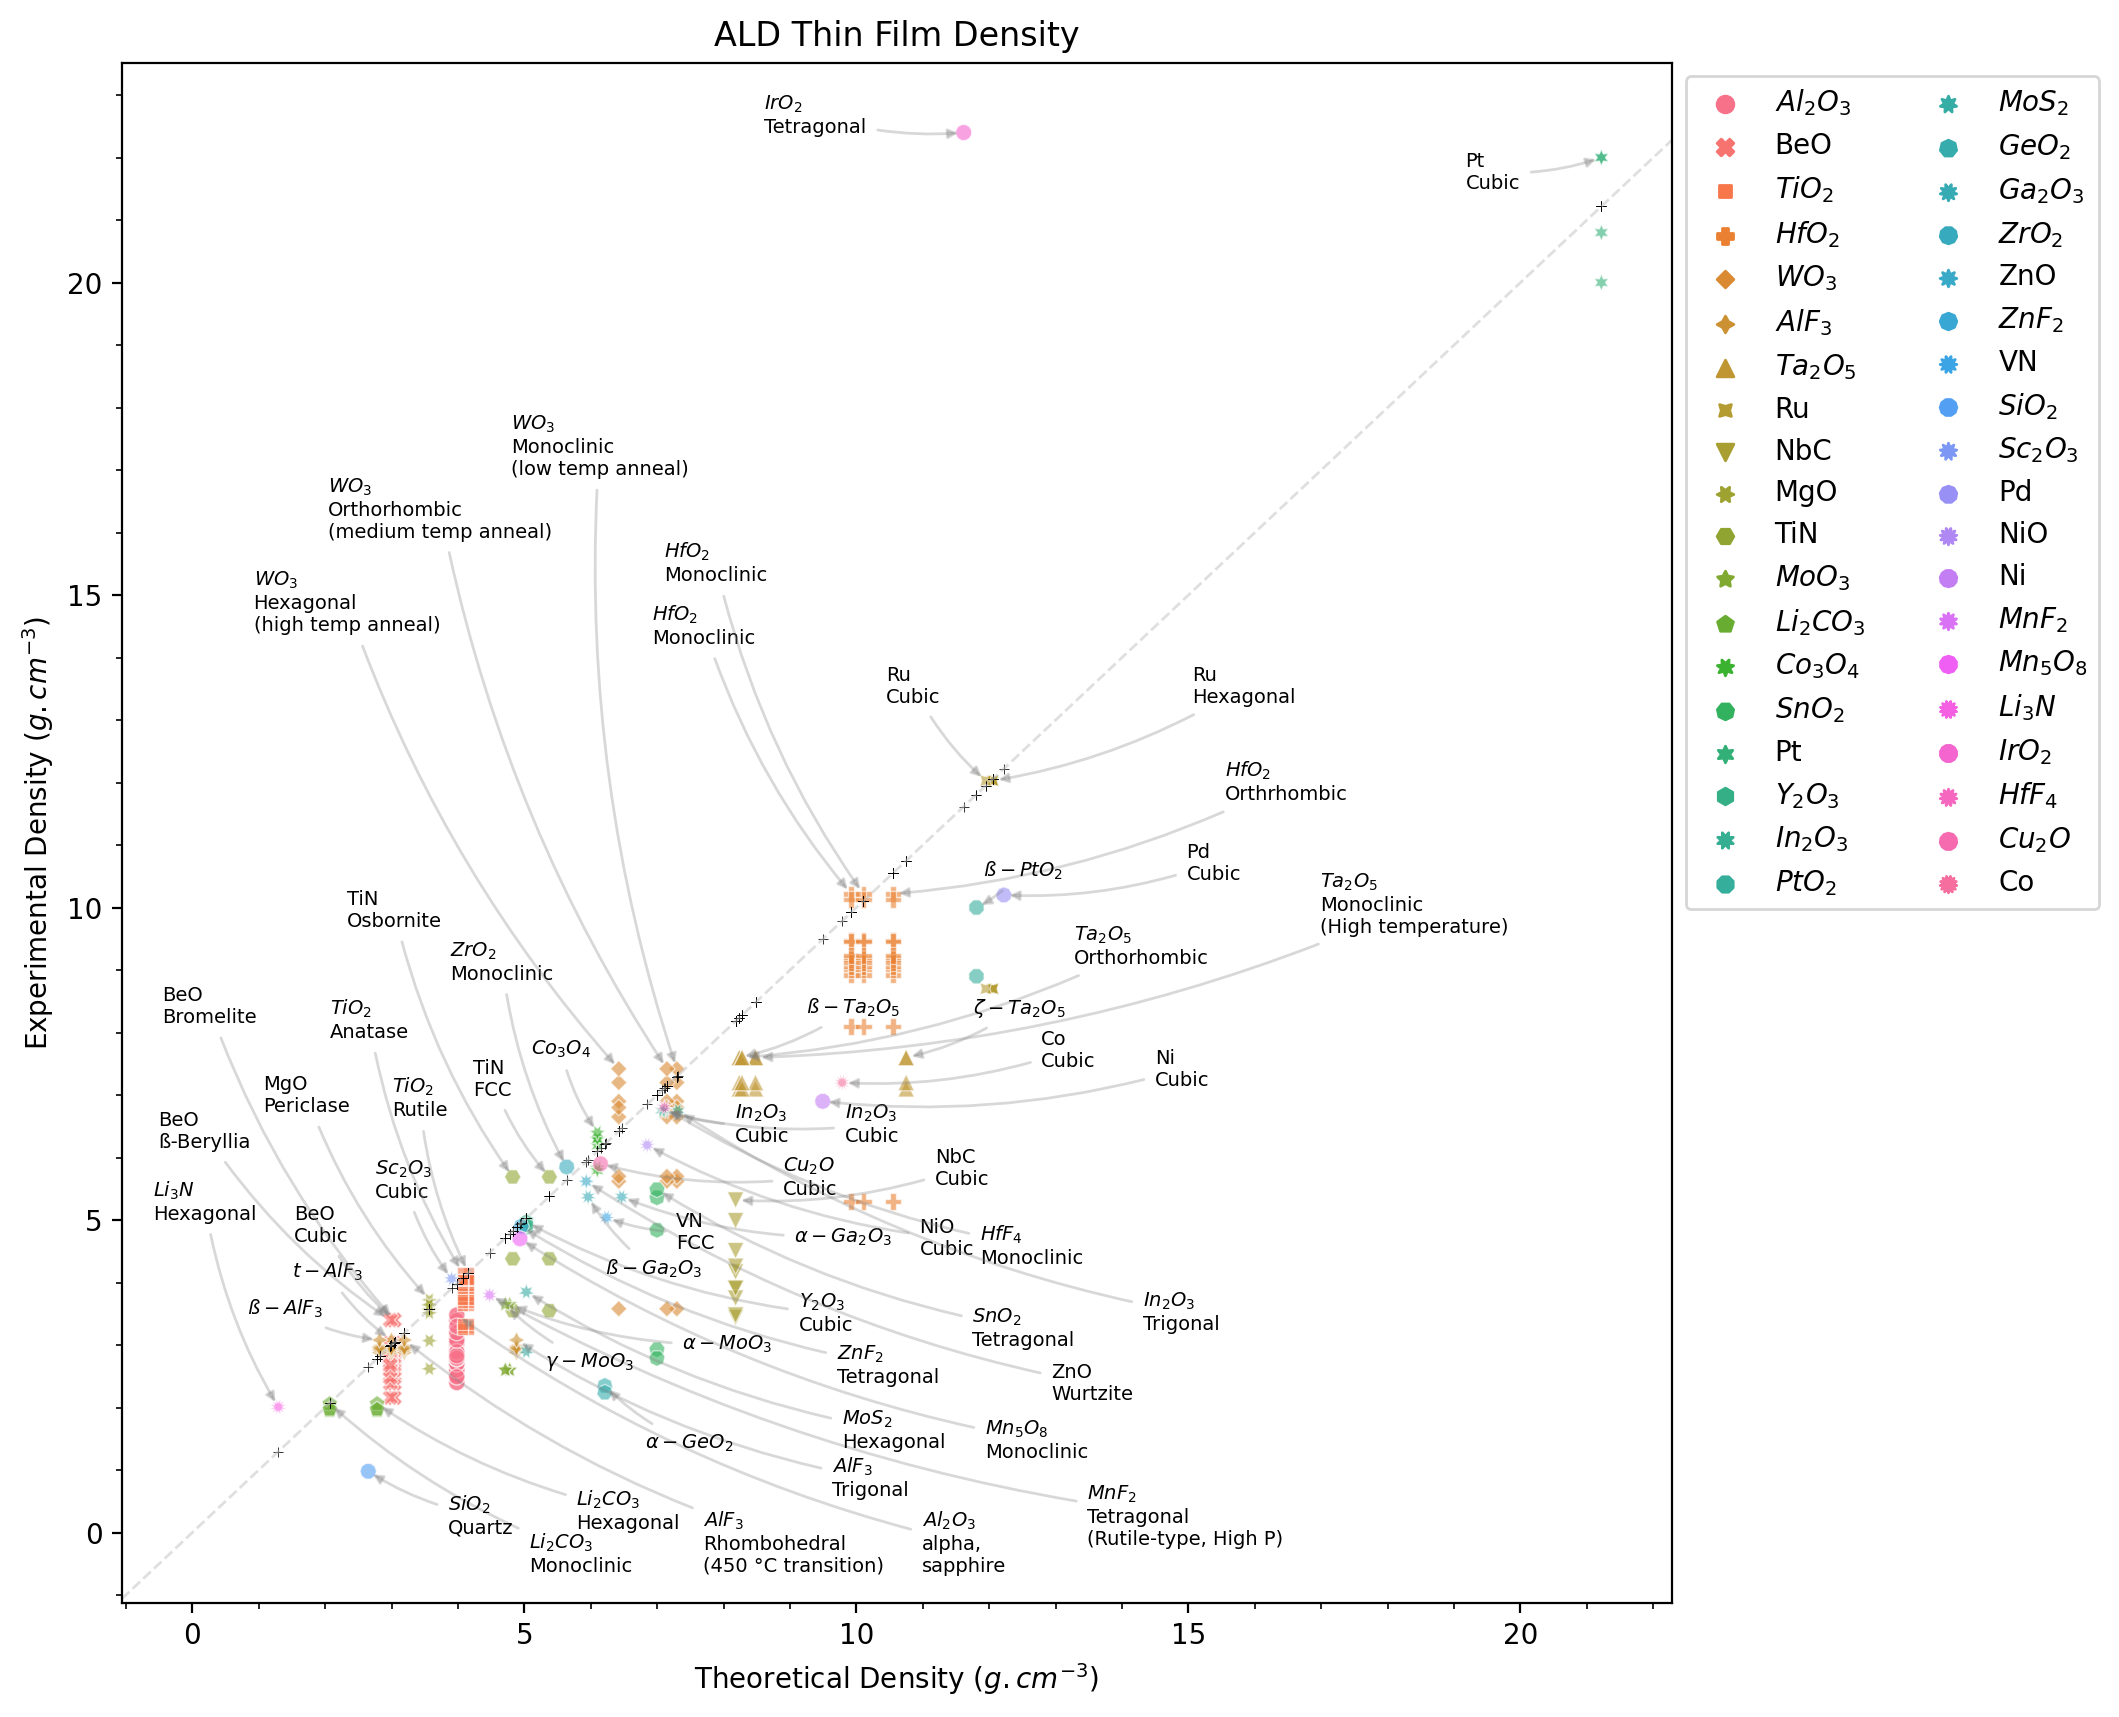
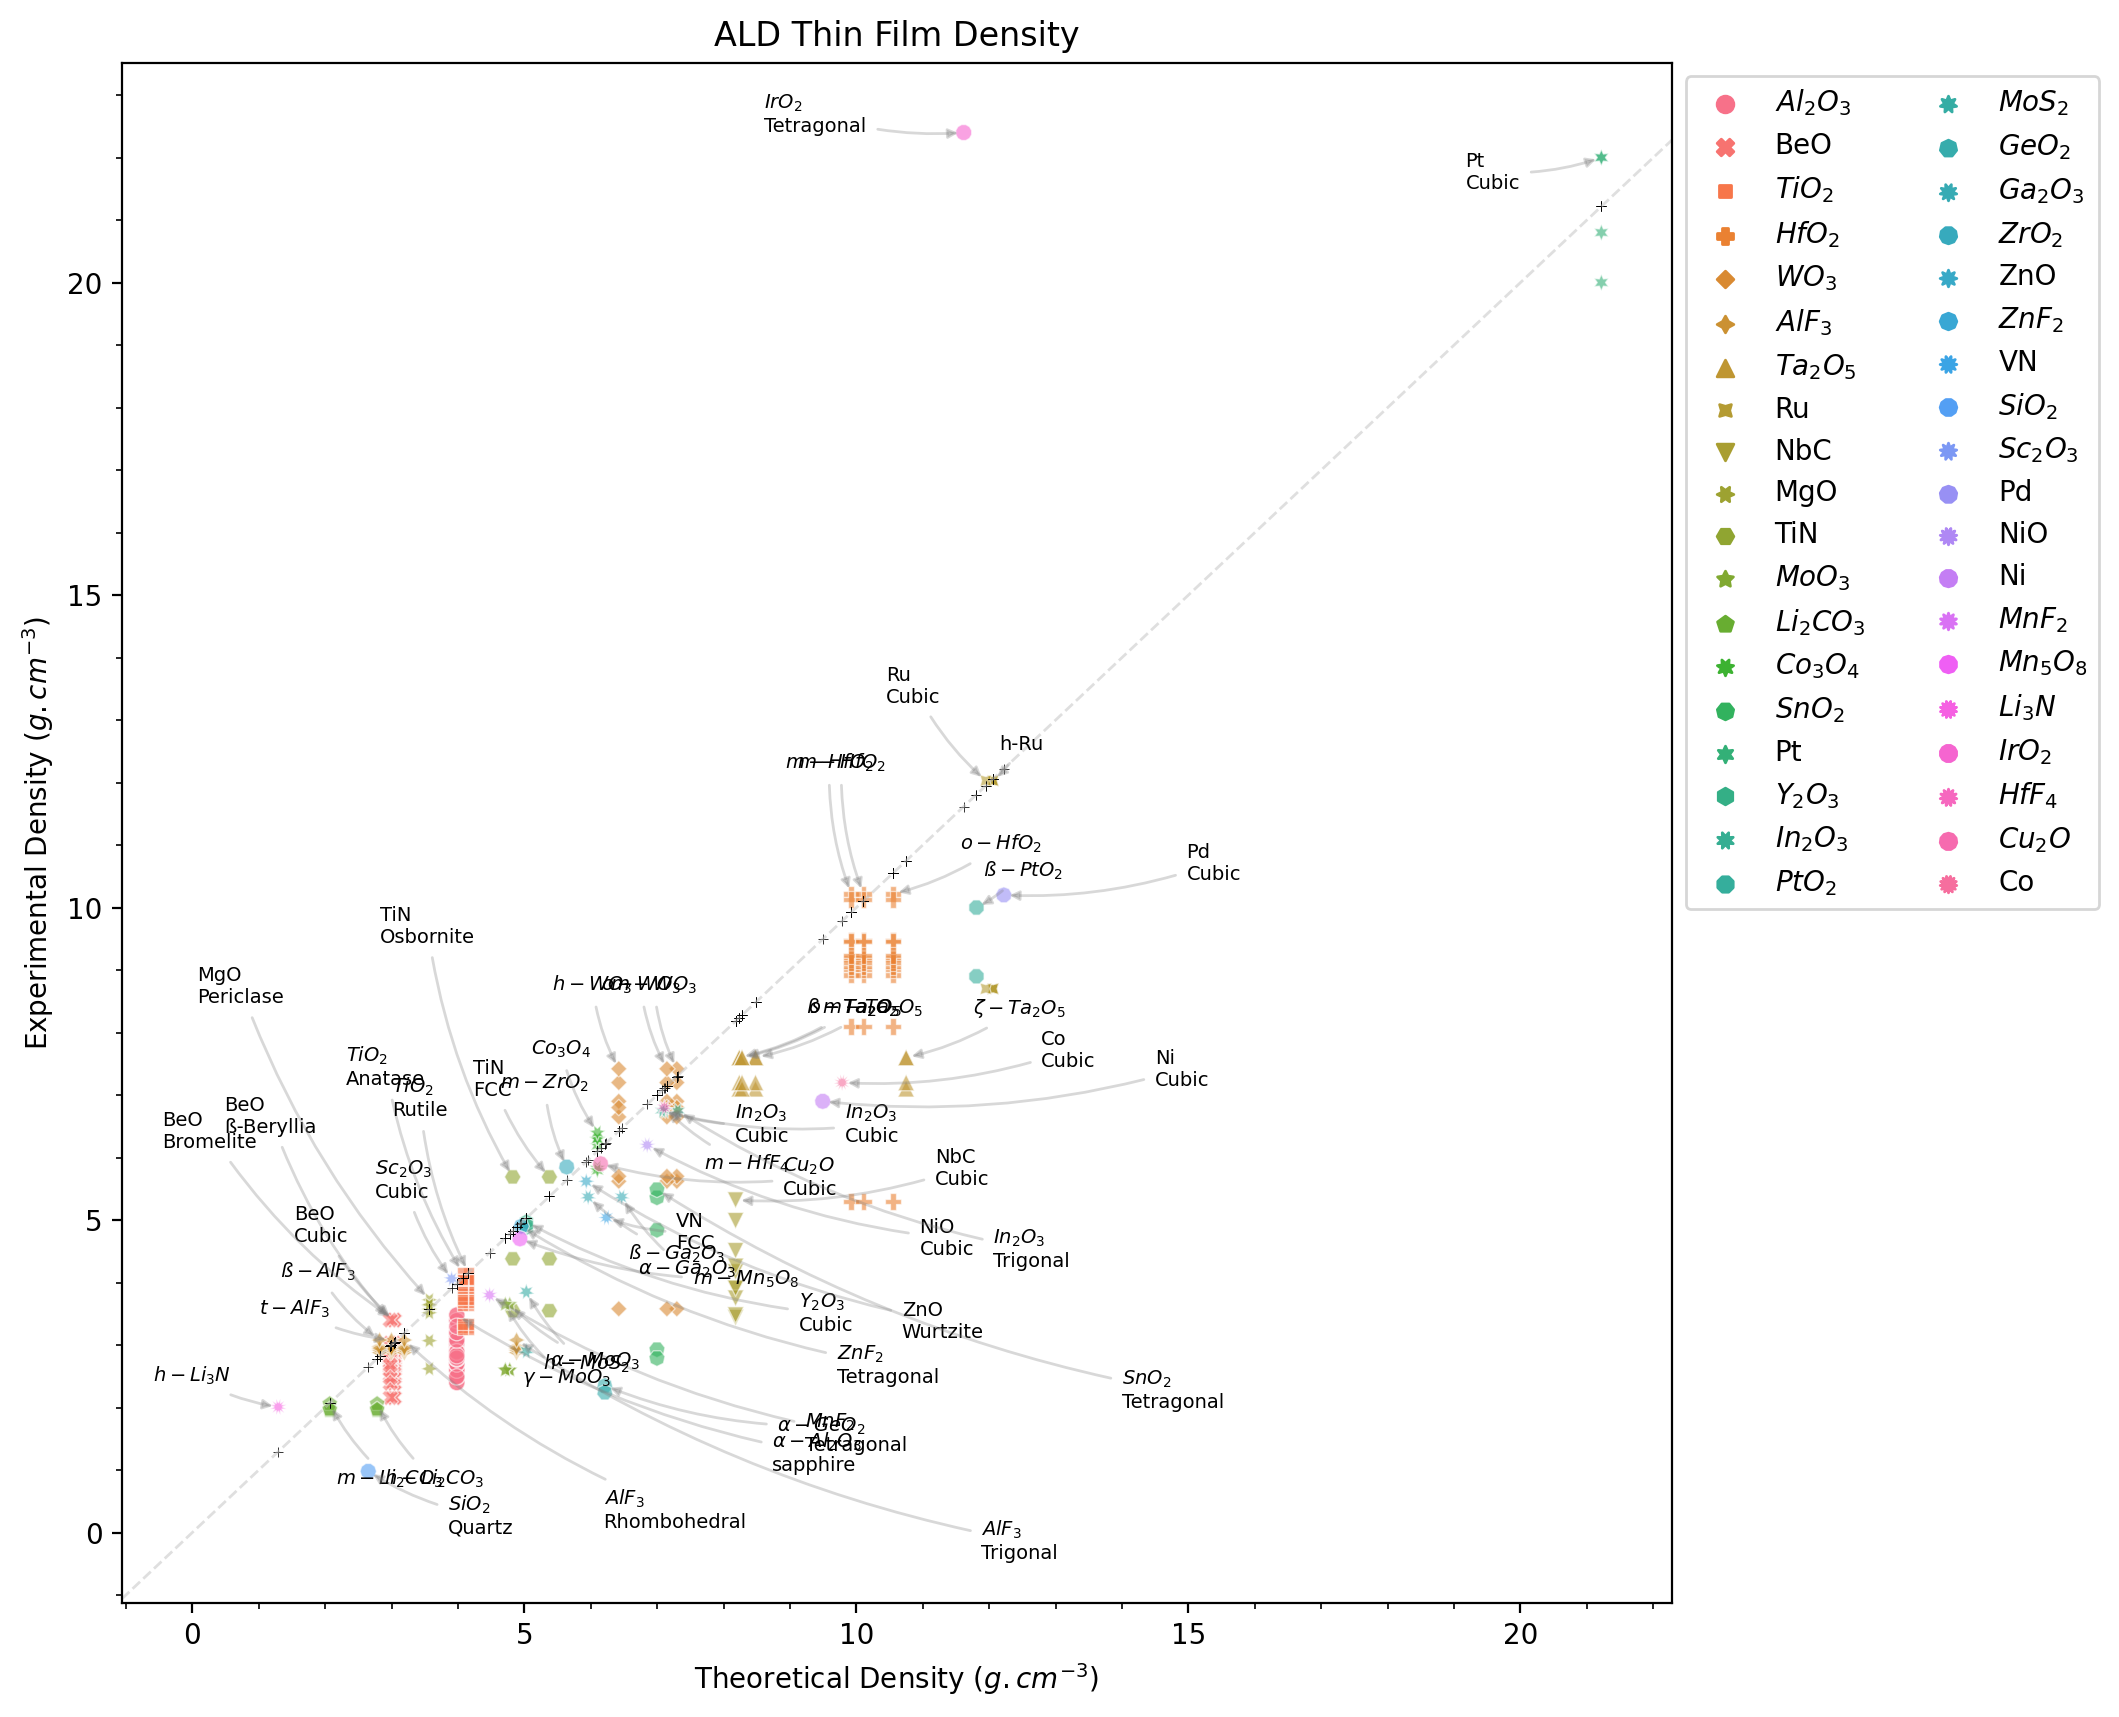
ET plot use new Label column for labels

diff --git a/scripts/ald-density-ET.py b/scripts/ald-density-ET.py
@@ -104,7 +104,7 @@ re_cols = {
         "Density (g.cm-3)": density_exp,
         "Tdep (°C)": "Deposition Temperature (°C)"
     }, 
-    "thr": {"Density gcm3": density_thr}
+    "thr": {"Density (g.cm-3)": density_thr}
 }
 
 df_exp.rename(columns=re_cols['exp'], inplace=True)
@@ -122,12 +122,12 @@ cols_exp = ['Source DOI', key, density_exp,
             'Paper also measured']
 df_exp = df_exp[cols_exp]
 
-cols_thr = [key, 'Phase', density_thr, 'Space group']
+cols_thr = [key, 'Phase', density_thr, "Label", 'Space group']
 df_thr = df_thr[cols_thr]
 
 
 # MERGE DATAFRAMES
-cols = ([density_exp], [density_thr, "Phase"])
+cols = ([density_exp], [density_thr, "Phase", "Label"])
 df_merged = ald_merge_df(df_exp, df_thr, key, cols, view_data=False)
 
 
@@ -305,28 +305,30 @@ def plot_data1(df, x, y, z, point_labels,  **kwargs):
 
 
     # PLOT LABELS
-    df_lbls = df.loc[:, [x, y, *point_labels]]
+    df_lbls = df.loc[:, [x, y, z, point_labels]]
     df_lbls.sort_values(by=[x,y], ascending=True, inplace=True)
     df_lbls.drop_duplicates(subset=[x, z], keep='last', inplace=True)
 
     # df_lbls["tmp"] =  df_lbls[point_labels[1]].str.contains( df_lbls[point_labels[0]], regex=False )
     df_lbls[point_labels] = df_lbls[point_labels].fillna('')
-    filt_material_in_phase = df_lbls.apply(lambda r: r[point_labels[0]] in r[point_labels[1]], axis=1)
+    # filt_material_in_phase = df_lbls.apply(lambda r: r[point_labels[0]] in r[point_labels[1]], axis=1)
 
-    for lbl_col in point_labels:
+    # for lbl_col in point_labels:
         # print(df_lbls[lbl_col].head())
-        df_lbls[lbl_col] = df_lbls[lbl_col].apply(create_latex_labels)
+        # df_lbls[lbl_col] = df_lbls[lbl_col].apply(create_latex_labels)
     
+    df_lbls[point_labels] = df_lbls[point_labels].apply(create_latex_labels)
     # df_lbls[point_labels[0]] = df_lbls[point_labels[0]].apply(create_latex_labels)
 
-    df_lbls.loc[filt_material_in_phase, ["label"]] = df_lbls[point_labels[1]] # NOTE: may need to split str if phase has multiple annotations
-    df_lbls.loc[~filt_material_in_phase, ["label"]] = df_lbls[point_labels[0]]+"\n"+df_lbls[point_labels[1]].str.replace(r'\s', r'\n', n=1, regex=True)
-    df_lbls["label"] = df_lbls["label"].str.strip()
-    df_lbls["label_lines"] = df_lbls["label"].str.count("\n")+1
+    # df_lbls.loc[filt_material_in_phase, ["label"]] = df_lbls[point_labels[1]] # NOTE: may need to split str if phase has multiple annotations
+    # df_lbls.loc[~filt_material_in_phase, ["label"]] = df_lbls[point_labels[0]]+"\n"+df_lbls[point_labels[1]].str.replace(r'\s', r'\n', n=1, regex=True)
+    df_lbls[point_labels] = df_lbls[point_labels].str.replace(r'\s+', r'\n', n=2, regex=True)
+    df_lbls[point_labels] = df_lbls[point_labels].str.strip()
+    df_lbls["label_lines"] = df_lbls[point_labels].str.count("\n")+1
 
     filt_twolines = df_lbls["label_lines"] == 2
     long_label = 6
-    df_lbls.loc[filt_twolines, ["len_twolines"]] = df_lbls["label"].str.replace(r'.+\n(.+)(?:\n.*)?', r'\1', regex=True).str.len() > long_label
+    df_lbls.loc[filt_twolines, ["len_twolines"]] = df_lbls[point_labels].str.replace(r'.+\n(.+)(?:\n.*)?', r'\1', regex=True).str.len() > long_label
     df_lbls["len_twolines"] = df_lbls["len_twolines"].fillna(False)
 
     df_lbls["below_line"] = df_lbls[x] > df_lbls[y]
@@ -355,7 +357,7 @@ def plot_data1(df, x, y, z, point_labels,  **kwargs):
 
 
         # GET LABEL TEXT
-        pnt_lbl = df_lbls["label"].iloc[line]
+        pnt_lbl = df_lbls[point_labels].iloc[line]
 
         nlines = df_lbls["label_lines"].iloc[line]
         oneline = nlines == 1
@@ -742,7 +744,7 @@ def plot_data1(df, x, y, z, point_labels,  **kwargs):
 
 
 
-fig2 = plot_data1(df_merged, x=density_thr, y=density_exp, z=key, point_labels=[key, "Phase"], units=density_units)
+fig2 = plot_data1(df_merged, x=density_thr, y=density_exp, z=key, point_labels="Label", units=density_units)
 
 fig2.savefig('plots/plotDensities-4.png', dpi=200, bbox_inches="tight")
 
